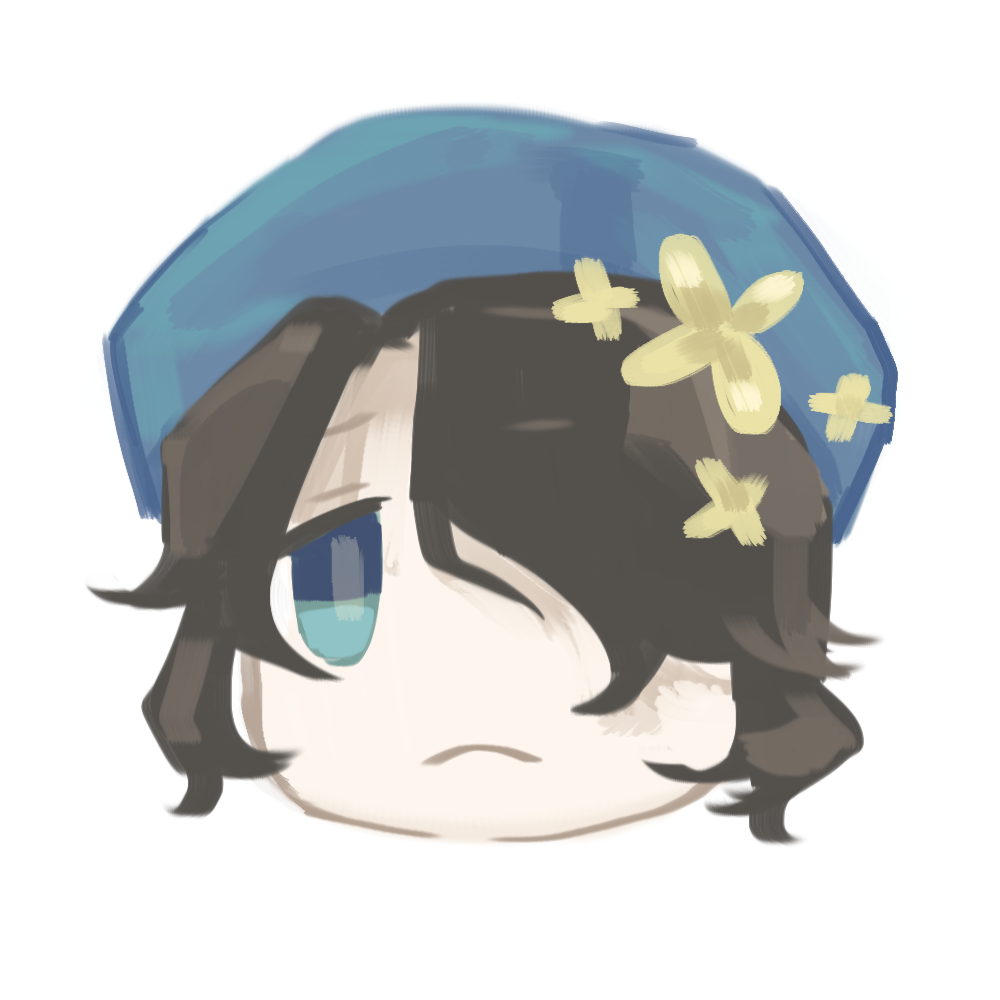
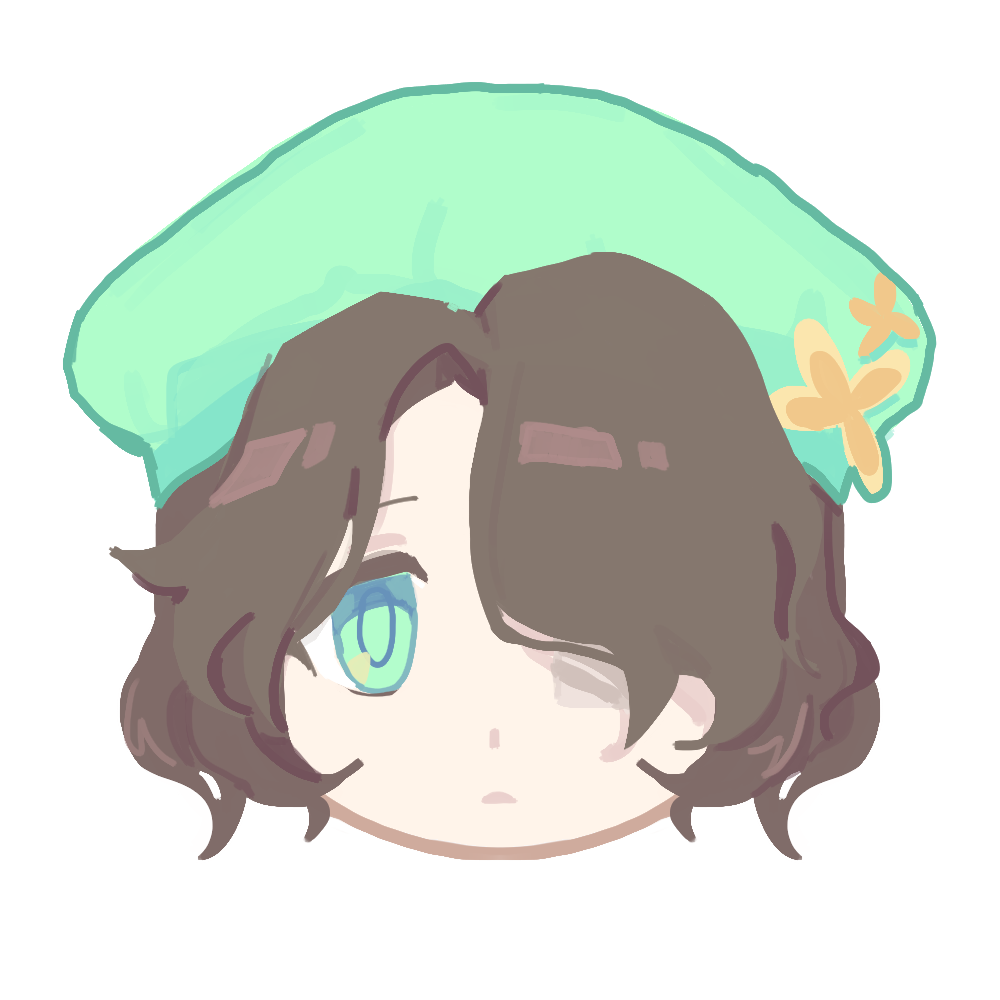
更新了小桂花图标

diff --git a/src/cafe.md b/src/cafe.md
@@ -13,11 +13,6 @@ icon: coffee
 
 :::
 
-
-<weather />
-
-<timer />
-
 ## 画板
 
 > [!tip]
